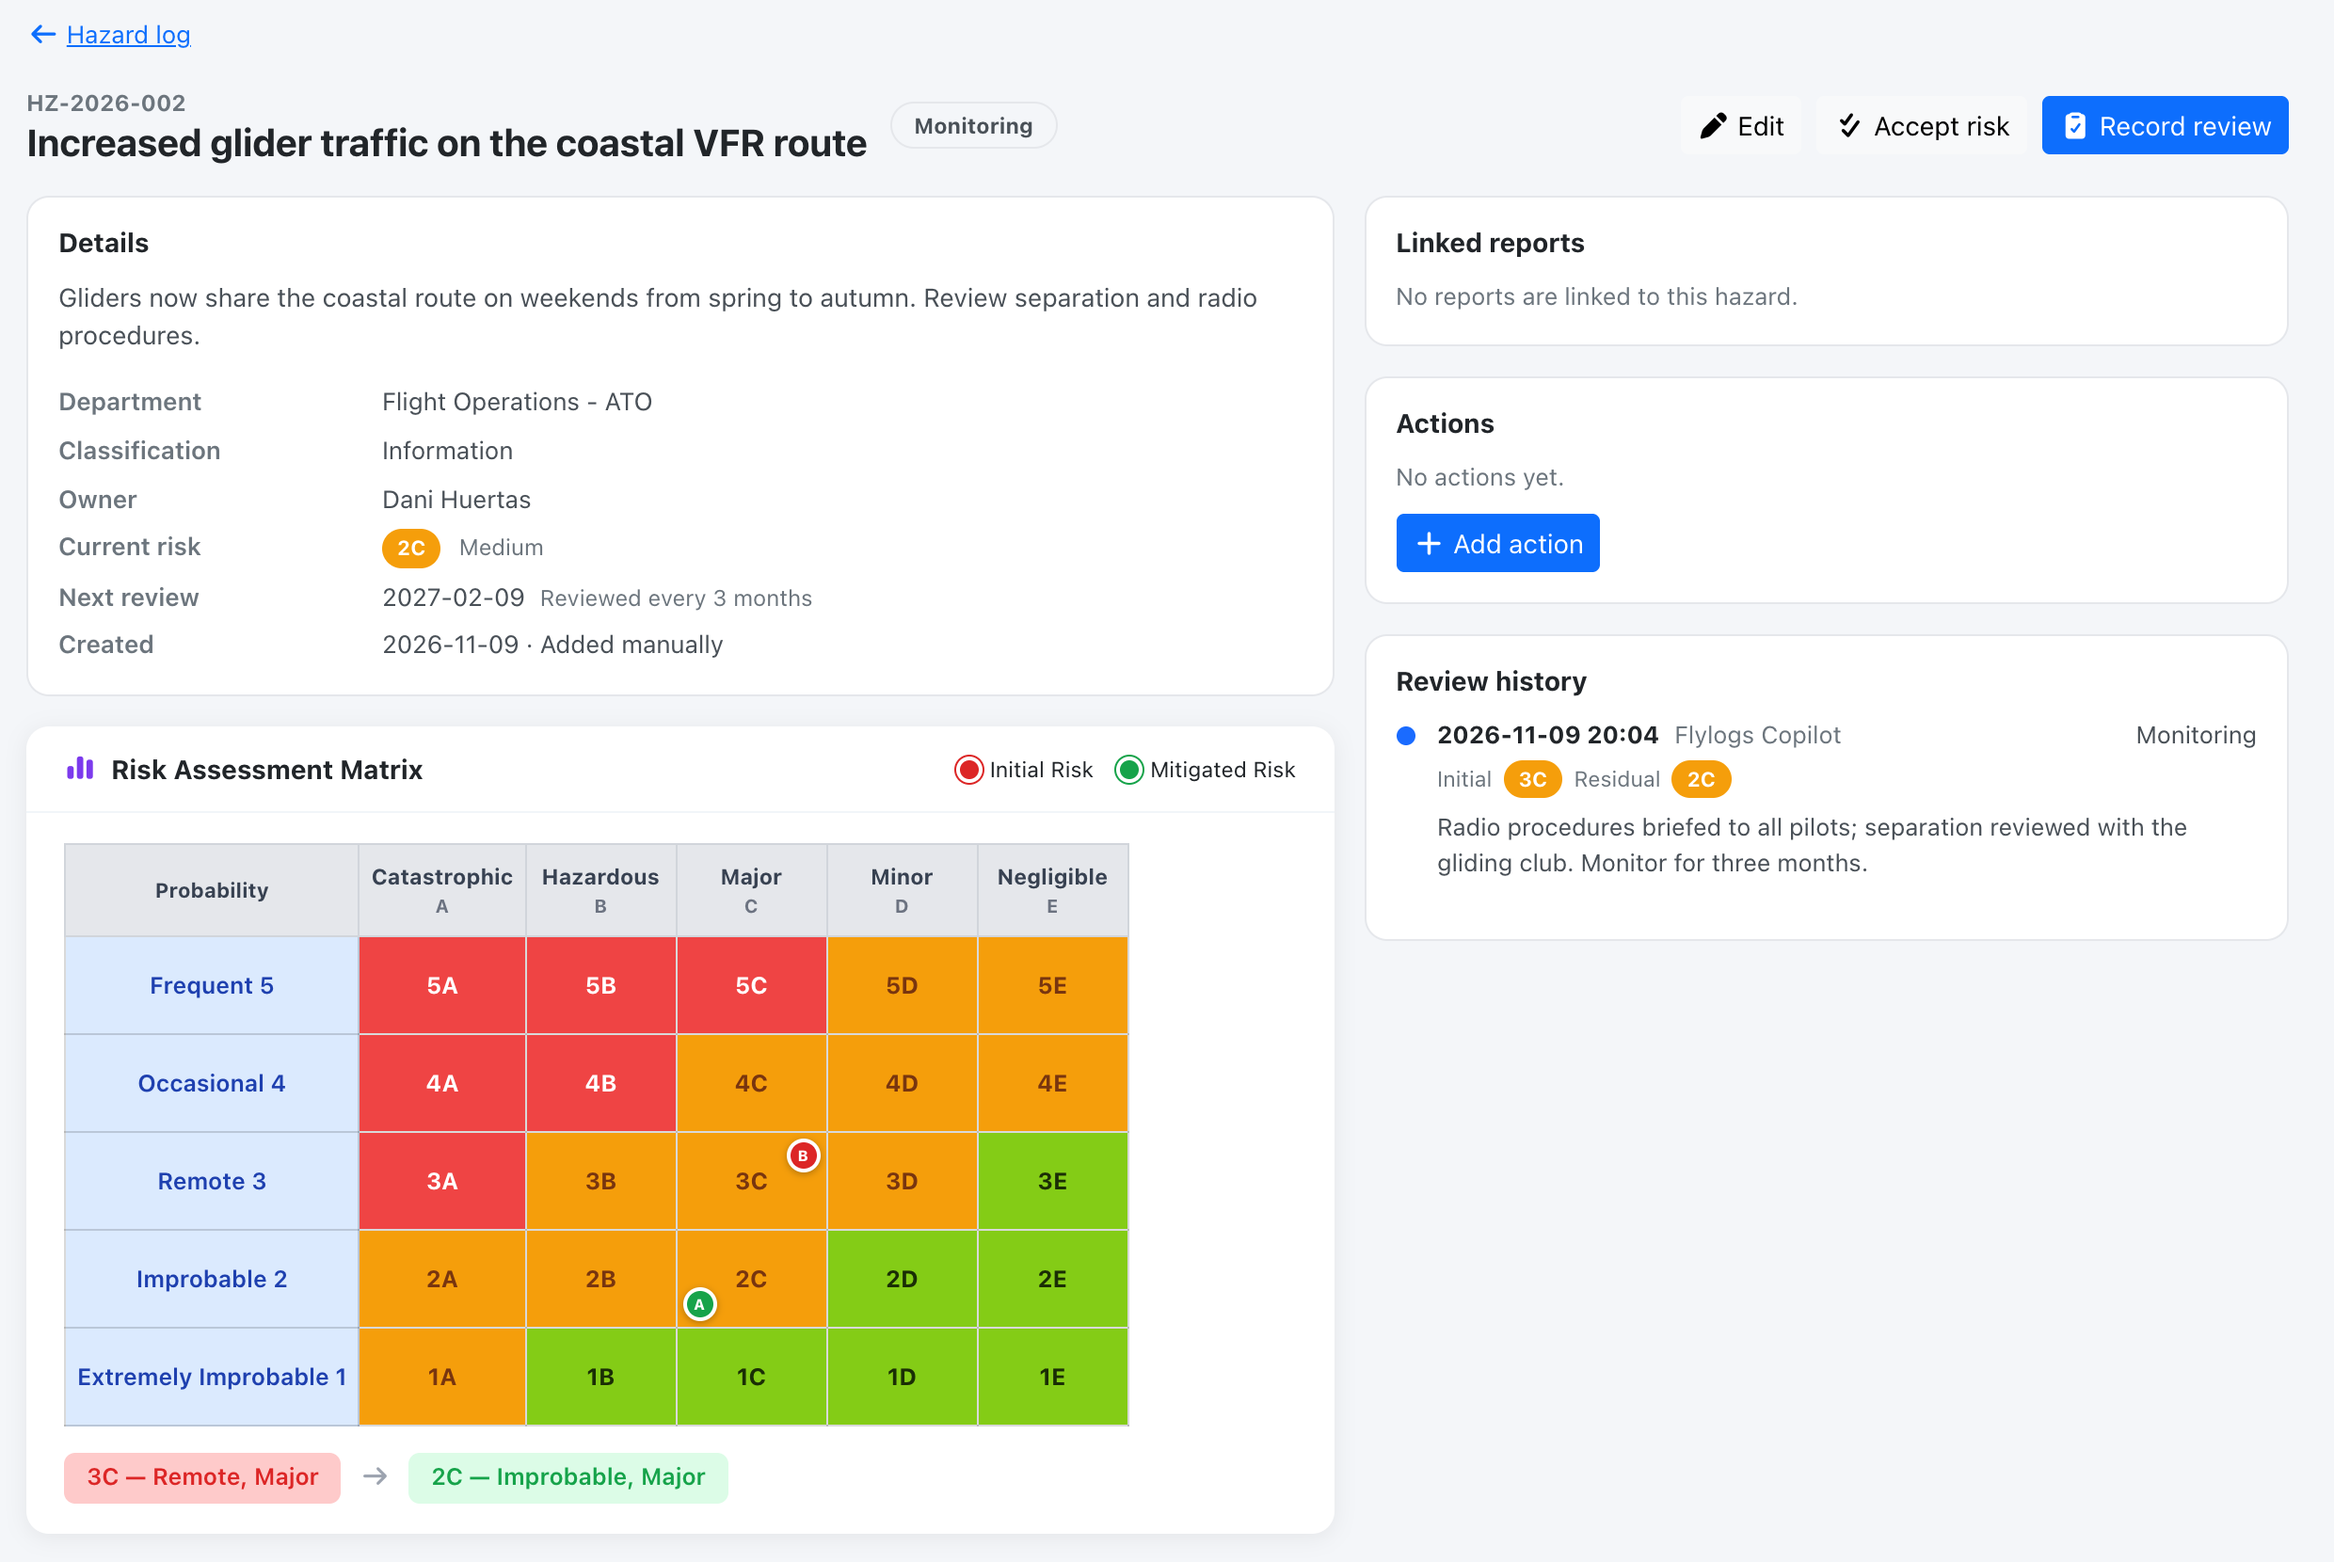
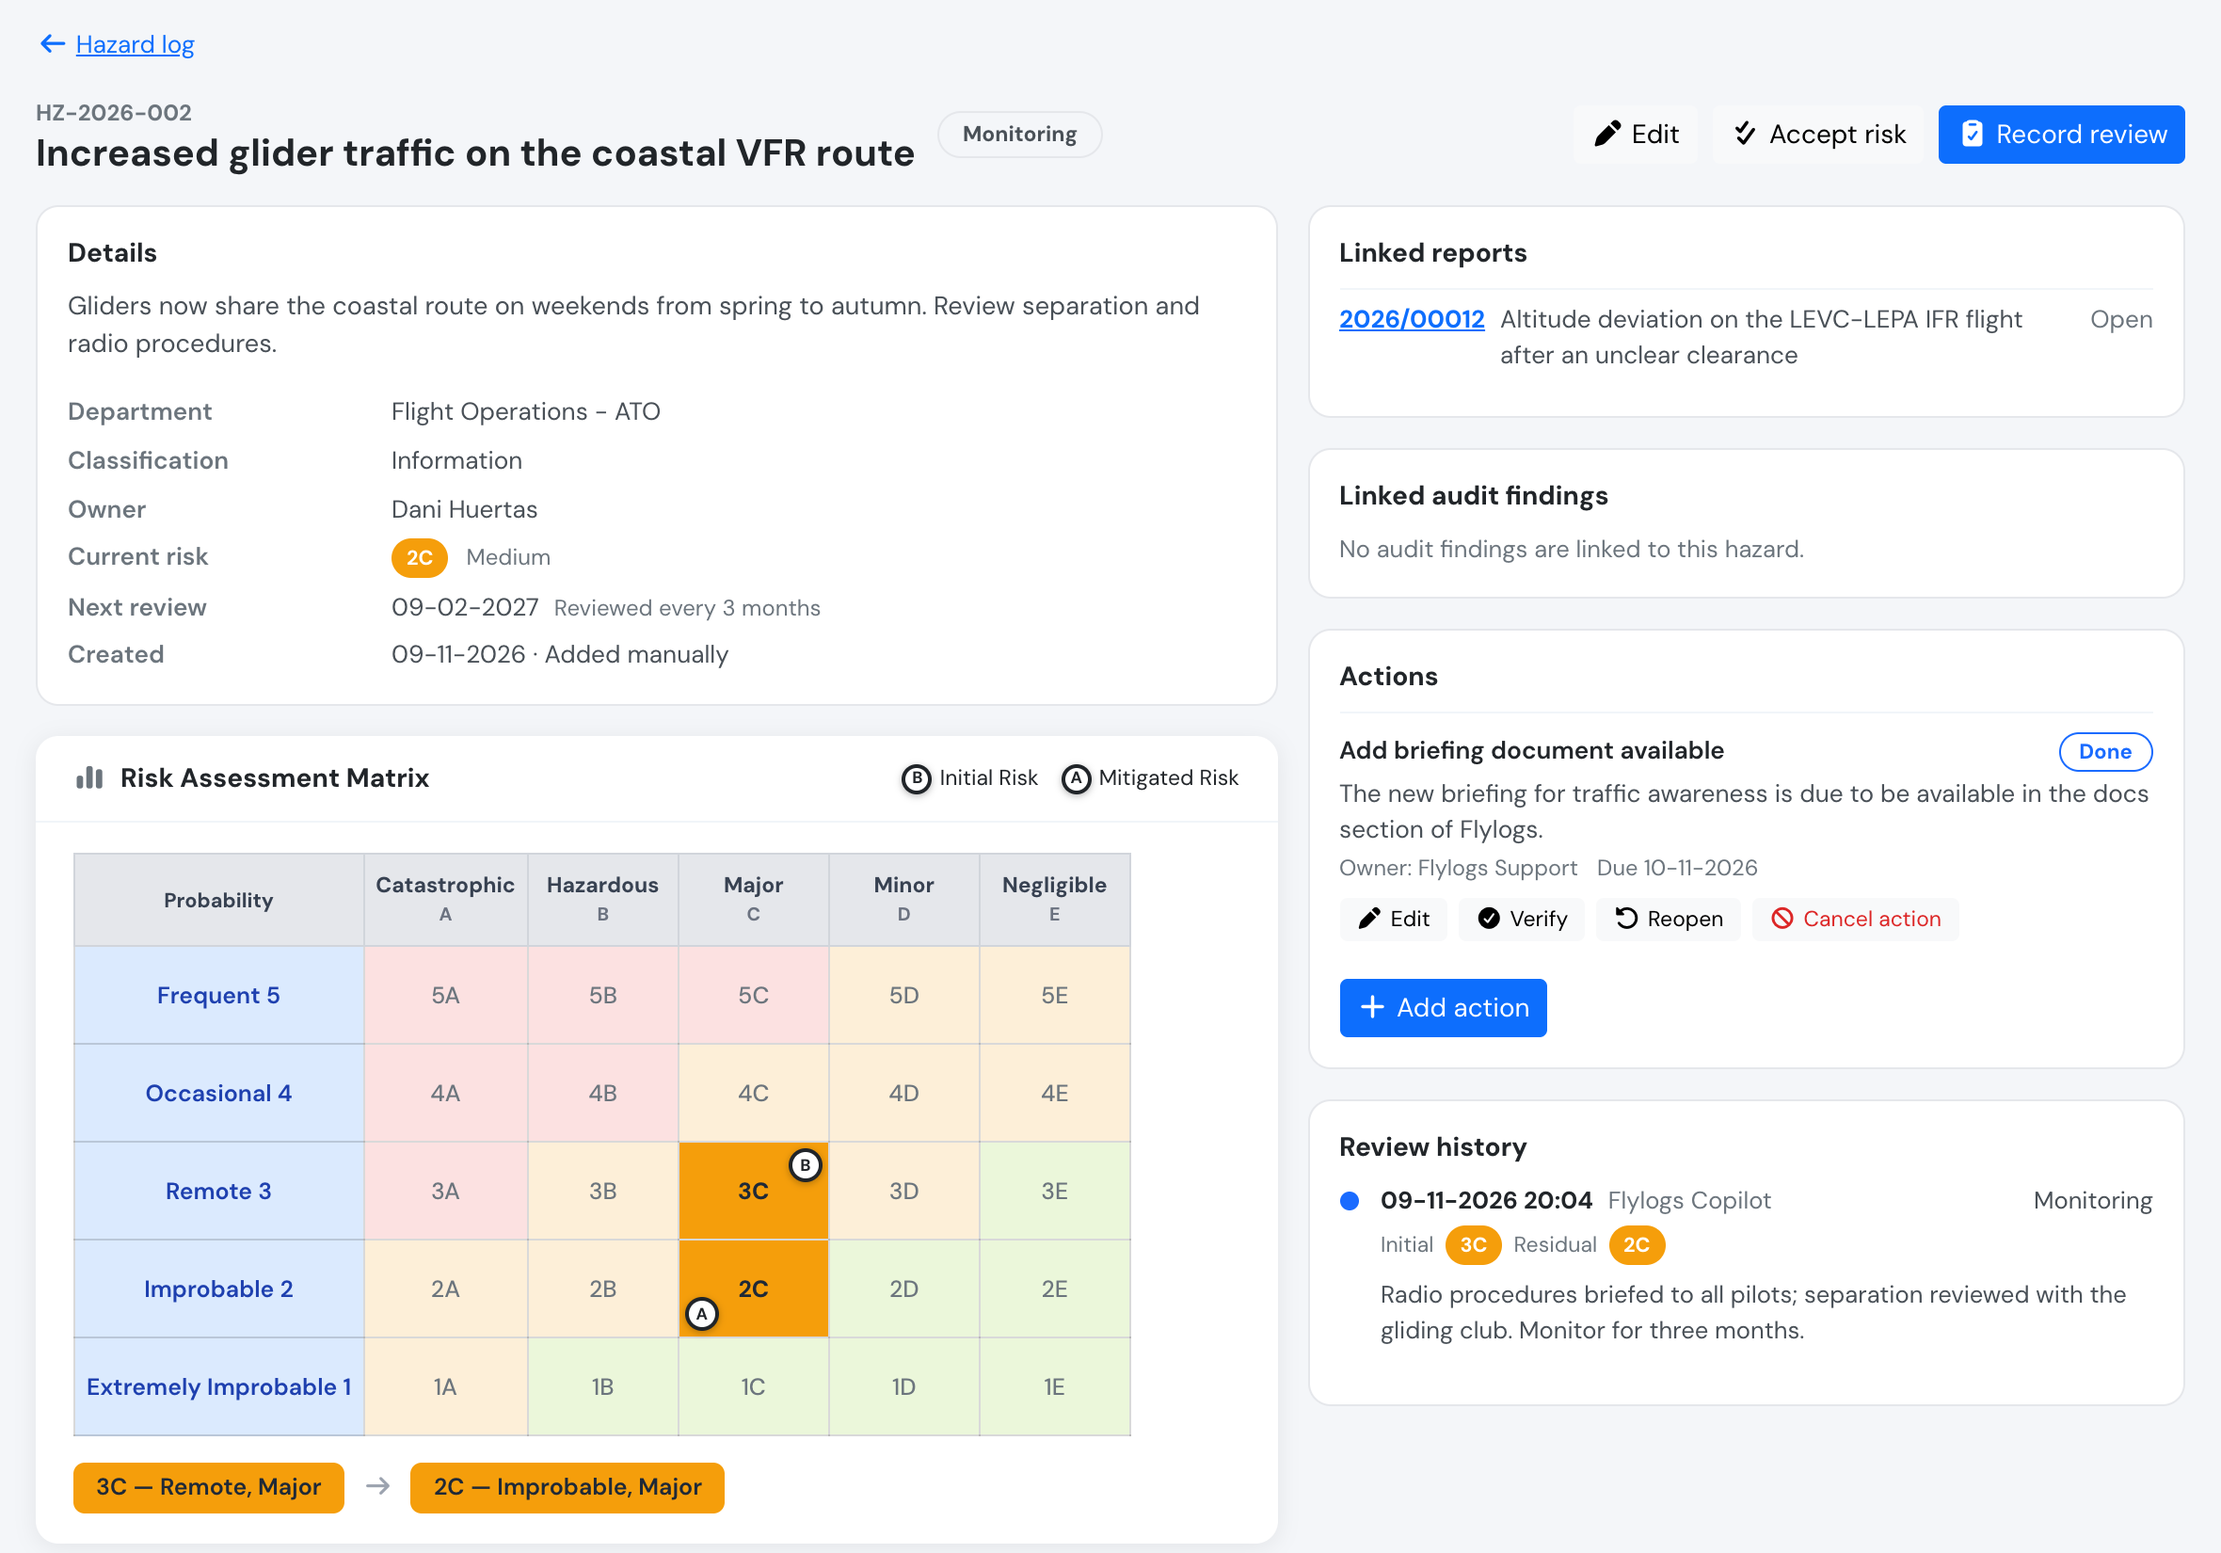
docs(safety): colours follow the report, new screenshots (#1400)
- Risk matrix: neutral B/A badges, grid muted once assessed, summary in
  band colours.
- Safety reports: what the header, badges and Damages icon colours mean.
- Retook list, flight view, grouping, risk matrix and hazard view shots.

diff --git a/sms/safety-reports.md b/sms/safety-reports.md
@@ -30,7 +30,9 @@ Each report can be associated to a flight. If it is, the flight information will
 
 All other report information is displayed below and only the safety manager or other, higher level managers can edit or delete the stored information.
 
-![](../.gitbook/assets/safety-report-flight-view.png)
+The colours on a report only ever describe the report itself. The header is blue, and its badges show the status (Open, Reviewed, Closed, Published) and the severity (Information, Incident, Accident, Hazard). The header turns red only for an **accident that is still open or under review**. Section icons are neutral; the **Damages** icon is the one exception and takes its colour from the recorded values: amber for light injuries, red for important damage, an aircraft destroyed, serious injuries or loss of life, and neutral for none or minimal damage. Red elsewhere on the page is kept for the high-risk band of the [risk matrix](icao-8951-risk-matrix.md).
+
+<figure><img src="../.gitbook/assets/safety-report-flight-view.png" alt="A closed incident report linked to a flight, with a blue header and grey and yellow status and severity badges"><figcaption><p>A closed incident linked to a flight: neutral header, with the status and severity carried by the badges.</p></figcaption></figure>
 
 Additionally, the person writing the report or any manager can comment on the report and upload files as needed that will be attached to the existing report.
 
